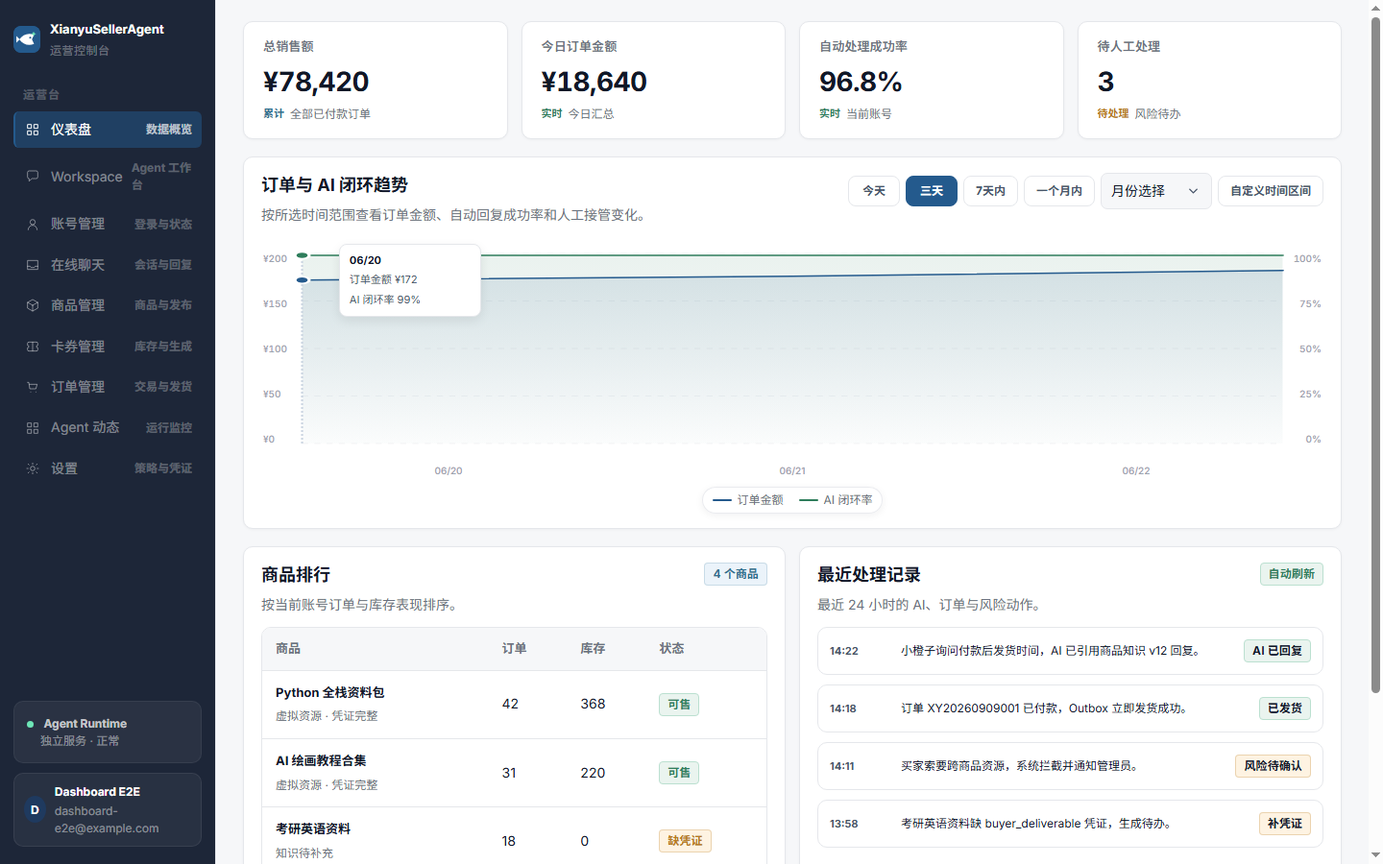
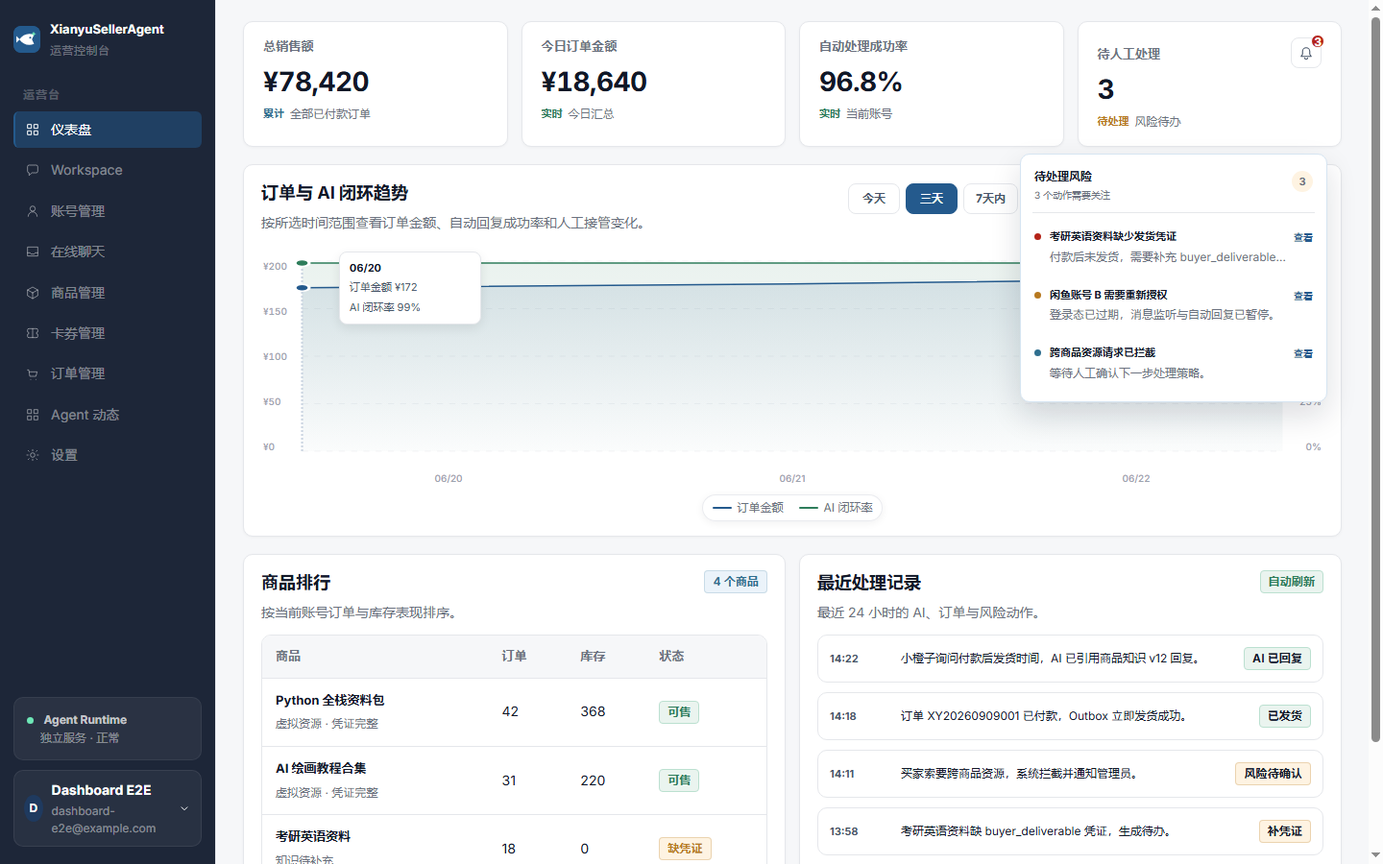
feat(仪表盘): 将待人工处理铃铛嵌入KPI卡片

diff --git a/apps/web/src/features/dashboard/components/dashboard.css b/apps/web/src/features/dashboard/components/dashboard.css
@@ -36,13 +36,13 @@
 .dashboard-btn .dashboard-icon{width:14px;height:14px}
 .dashboard-badge{display:inline-flex;align-items:center;justify-content:center;width:max-content;border-radius:4px;padding:2px 8px;font-size:11px;font-weight:700;line-height:18px;letter-spacing:.01em;white-space:nowrap}.dashboard-badge-ok{color:var(--success);background:var(--success-bg);border:1px solid var(--success-border)}.dashboard-badge-warn{color:var(--warn);background:var(--warn-bg);border:1px solid rgba(183,121,31,.26)}.dashboard-badge-danger{color:var(--danger);background:var(--danger-bg);border:1px solid rgba(180,35,24,.2)}.dashboard-badge-info{color:var(--info);background:var(--soft-blue-bg);border:1px solid rgba(47,111,143,.18)}.dashboard-badge-gray{color:var(--sub);background:var(--bg);border:1px solid var(--border)}
 .tone-ok{color:var(--success)}.tone-warn{color:var(--warn)}.tone-danger{color:var(--danger)}.tone-info{color:var(--info)}.tone-gray{color:var(--sub)}
-.dashboard-kpi-grid{display:grid;grid-template-columns:repeat(4,minmax(0,1fr));gap:14px}.dashboard-kpi-card{padding:16px 20px}.dashboard-kpi-label{margin-bottom:10px;color:var(--sub);font-size:11px;font-weight:600;letter-spacing:.01em}.dashboard-kpi-value{margin-bottom:8px;color:var(--text);font-size:24px;font-weight:800;letter-spacing:-.02em;font-variant-numeric:tabular-nums}.dashboard-kpi-delta{display:flex;align-items:center;gap:6px;font-size:11px}.dashboard-kpi-delta span{font-weight:800}.dashboard-kpi-delta small{color:var(--sub);font-size:11px}
+.dashboard-kpi-grid{display:grid;grid-template-columns:repeat(4,minmax(0,1fr));gap:14px}.dashboard-kpi-card{position:relative;padding:16px 20px}.dashboard-kpi-card-head{display:flex;align-items:flex-start;justify-content:space-between;gap:8px;min-height:32px}.dashboard-kpi-card-head .dashboard-kpi-label{margin-top:8px}.dashboard-kpi-label{margin-bottom:10px;color:var(--sub);font-size:11px;font-weight:600;letter-spacing:.01em}.dashboard-kpi-value{margin-bottom:8px;color:var(--text);font-size:24px;font-weight:800;letter-spacing:-.02em;font-variant-numeric:tabular-nums}.dashboard-kpi-delta{display:flex;align-items:center;gap:6px;font-size:11px}.dashboard-kpi-delta span{font-weight:800}.dashboard-kpi-delta small{color:var(--sub);font-size:11px}
 .dashboard-main-grid{display:grid;grid-template-columns:minmax(0,1fr);gap:14px}.dashboard-two-grid{display:grid;grid-template-columns:repeat(2,minmax(0,1fr));gap:14px}.dashboard-panel{padding:16px 18px;overflow:hidden}.dashboard-panel-head{display:flex;justify-content:space-between;align-items:flex-start;gap:12px;margin-bottom:12px}.dashboard-panel h2{margin:0 0 7px;font-size:13px;font-weight:700;color:var(--text)}.dashboard-panel p{margin:0;color:var(--sub);font-size:12px;line-height:1.65}.dashboard-trend-head-actions{display:flex;align-items:center;justify-content:flex-end;gap:8px;flex-wrap:wrap}.dashboard-trend-controls{display:flex;align-items:center;justify-content:flex-end;gap:6px;flex-wrap:wrap}.dashboard-trend-select,.dashboard-trend-date{height:32px;padding:0 9px;border:1px solid var(--border);border-radius:8px;background:#fff;color:var(--muted);font-size:11px;font-weight:700}.dashboard-trend-date{width:126px;font-weight:500}.dashboard-trend-date-separator{color:var(--sub);font-size:11px}.dashboard-trend-apply{height:32px;padding:0 10px;font-size:11px}.dashboard-chart-wrap{height:286px;position:relative}.dashboard-chart-wrap svg{width:100%;height:232px;stroke:none;display:block}.dashboard-chart-grid{stroke:#F3F4F6;stroke-width:1;stroke-dasharray:3 3}.dashboard-chart-line{fill:none;stroke:var(--link);stroke-width:1.5;stroke-linecap:round;stroke-linejoin:round}.dashboard-chart-line-secondary{stroke:var(--success)}.dashboard-chart-hover-line{stroke:#CBD5E1;stroke-width:1;stroke-dasharray:2 2}.dashboard-chart-dot{stroke:#fff;stroke-width:1.5}.dashboard-chart-dot-primary{fill:var(--link)}.dashboard-chart-dot-secondary{fill:var(--success)}.dashboard-chart-tooltip{position:absolute;top:6px;z-index:2;display:grid;gap:3px;min-width:148px;transform:translateX(-50%);padding:8px 10px;border:1px solid var(--border);border-radius:8px;background:#fff;box-shadow:0 4px 12px rgba(0,0,0,.08);color:var(--muted);font-size:11px;pointer-events:none}.dashboard-chart-tooltip strong{color:var(--text);font-size:11px}.dashboard-chart-legend{display:flex;gap:16px;align-items:center;color:var(--sub);font-size:11px}.dashboard-chart-legend span{display:inline-flex;align-items:center;gap:6px}.dashboard-legend-line{width:20px;height:2px;border-radius:2px;display:inline-block}.dashboard-legend-line.primary{background:var(--link)}.dashboard-legend-line.secondary{background:var(--success)}
 .dashboard-data-table{display:grid;border:1px solid var(--border);border-radius:10px;overflow:hidden}.dashboard-table-head,.dashboard-table-row{display:grid;grid-template-columns:1.6fr .5fr .5fr .7fr;align-items:center;gap:12px;padding:12px 14px;border-bottom:1px solid var(--border);font-size:12px}.dashboard-table-head{background:var(--bg);color:var(--sub);font-size:11px;font-weight:800}.dashboard-table-row:last-child{border-bottom:0}.dashboard-table-row b{display:block;margin-bottom:3px;font-size:13px}.dashboard-table-row small{color:var(--sub);font-size:11px}.dashboard-empty-row{padding:24px 14px;color:var(--sub);font-size:12px;text-align:center}
 .dashboard-timeline{display:grid;gap:10px}.dashboard-timeline-row{display:grid;grid-template-columns:64px 1fr auto;gap:10px;align-items:center;padding:12px;border:1px solid var(--border);border-radius:10px;background:#fff;font-size:12px;text-align:left}.dashboard-timeline-row:hover{background:#F8FAFC}.dashboard-timeline-row strong{font-size:11px;color:var(--muted)}.dashboard-timeline-row span{line-height:1.45;color:var(--text)}
-.dashboard-risk-strip{display:flex;align-items:center;justify-content:space-between;gap:14px;padding:12px 14px;border:1px solid #D6E5F2;border-radius:10px;background:var(--soft-blue-bg)}.dashboard-risk-strip strong,.dashboard-risk-strip span{display:block}.dashboard-risk-strip strong{font-size:12px}.dashboard-risk-strip span{margin-top:3px;color:var(--sub);font-size:10px}.dashboard-risk-inline-list{display:flex;gap:8px;flex-wrap:wrap;justify-content:flex-end}.dashboard-risk-chip{display:flex;align-items:center;gap:7px;min-height:32px;padding:0 10px;border:1px solid var(--border);border-radius:8px;background:#fff;color:var(--text);font-size:11px}.dashboard-risk-chip small{margin:0;color:var(--link);font-weight:800}.dashboard-risk-high{border-color:rgba(180,35,24,.2)}.dashboard-risk-medium{border-color:rgba(183,121,31,.26)}
+.dashboard-risk-popover{position:absolute;top:calc(100% + 8px);right:14px;z-index:8;width:min(320px,calc(100vw - 32px));padding:12px;border:1px solid #D6E5F2;border-radius:10px;background:#fff;box-shadow:0 14px 32px rgba(17,24,39,.14);text-align:left}.dashboard-risk-popover-head{display:flex;align-items:flex-start;justify-content:space-between;gap:12px;padding:2px 2px 10px;border-bottom:1px solid var(--border)}.dashboard-risk-popover-head strong,.dashboard-risk-popover-head span{display:block}.dashboard-risk-popover-head strong{color:var(--text);font-size:12px}.dashboard-risk-popover-head span{margin-top:3px;color:var(--sub);font-size:10px}.dashboard-risk-popover-count{min-width:22px;height:22px;padding:0 6px;border-radius:999px;background:var(--warn-bg);color:var(--warn);font-size:11px!important;font-weight:800;line-height:22px;text-align:center}.dashboard-risk-popover-list{display:grid;gap:6px;padding-top:8px}.dashboard-risk-popover-item{display:grid;grid-template-columns:8px minmax(0,1fr) auto;align-items:start;gap:8px;width:100%;padding:8px 2px;border:0;background:transparent;color:var(--text);text-align:left}.dashboard-risk-popover-item:hover{background:var(--bg)}.dashboard-risk-popover-dot{width:7px;height:7px;margin-top:5px;border-radius:999px;background:var(--info)}.dashboard-risk-popover-item.dashboard-risk-high .dashboard-risk-popover-dot{background:var(--danger)}.dashboard-risk-popover-item.dashboard-risk-medium .dashboard-risk-popover-dot{background:var(--warn)}.dashboard-risk-popover-copy{min-width:0}.dashboard-risk-popover-copy strong,.dashboard-risk-popover-copy small{display:block;overflow:hidden;text-overflow:ellipsis;white-space:nowrap}.dashboard-risk-popover-copy strong{font-size:11px}.dashboard-risk-popover-copy small{margin-top:3px;color:var(--sub);font-size:10px}.dashboard-risk-popover-action{padding-top:1px;color:var(--link);font-size:10px;font-weight:800}.dashboard-risk-popover-empty{margin:10px 2px 2px;color:var(--sub);font-size:11px}
 .dashboard-state-stack{min-height:100%}.dashboard-state-card{display:grid;gap:10px;align-content:center;justify-items:start;min-height:300px;padding:24px;border:1px dashed #C8D8EA;border-radius:10px;background:#fff}.dashboard-state-card strong{font-size:15px}.dashboard-state-card p{margin:0;color:var(--sub);font-size:12px;line-height:1.6}.dashboard-state-forbidden{border-color:rgba(180,35,24,.22);background:var(--danger-bg)}.dashboard-state-timeout{border-color:rgba(183,121,31,.24);background:var(--warn-bg)}.dashboard-state-error{border-color:rgba(180,35,24,.22);background:#FFF8F7}.dashboard-skeleton-title{width:220px;height:20px;border-radius:6px;background:linear-gradient(90deg,#EEF2F7 25%,#F8FAFC 50%,#EEF2F7 75%);background-size:200% 100%;animation:dashboard-shimmer 1.4s infinite}.dashboard-skeleton-copy{width:420px;height:12px;border-radius:6px;background:#F1F5F9}.dashboard-skeleton-grid{display:grid;grid-template-columns:repeat(4,1fr);gap:14px;width:100%;margin-top:8px}.dashboard-skeleton-grid span{height:108px;border-radius:10px;background:linear-gradient(90deg,#EEF2F7 25%,#F8FAFC 50%,#EEF2F7 75%);background-size:200% 100%;animation:dashboard-shimmer 1.4s infinite}.dashboard-mobile-frame{display:none}
-.dashboard-icon-button{position:relative;width:32px;height:32px;display:grid;place-items:center;border:1px solid var(--border);border-radius:8px;background:#fff;color:var(--muted)}.dashboard-icon-button b{position:absolute;top:-4px;right:-4px;width:14px;height:14px;border-radius:999px;background:var(--danger);border:1.5px solid #fff;color:#fff;font-size:8px;line-height:12px}
+.dashboard-icon-button{position:relative;width:32px;height:32px;display:grid;place-items:center;border:1px solid var(--border);border-radius:8px;background:#fff;color:var(--muted)}.dashboard-icon-button b{position:absolute;top:-4px;right:-4px;width:14px;height:14px;border-radius:999px;background:var(--danger);border:1.5px solid #fff;color:#fff;font-size:8px;line-height:12px}.dashboard-kpi-bell{flex:0 0 auto}.dashboard-pending-manual-card{z-index:2}
 .dashboard-risk-drawer{position:fixed;inset:0;z-index:40;display:flex;justify-content:flex-end;background:rgba(17,24,39,.24);backdrop-filter:blur(4px)}.dashboard-risk-drawer-card{width:min(420px,calc(100vw - 28px));height:100%;padding:24px;background:#fff;box-shadow:-18px 0 48px rgba(17,24,39,.16)}.dashboard-risk-drawer-head{display:flex;justify-content:space-between;gap:14px;align-items:flex-start;margin-bottom:18px}.dashboard-risk-drawer-head h2{margin:0;font-size:18px}.dashboard-risk-drawer-card>p{color:var(--muted);font-size:13px;line-height:1.65}.dashboard-risk-drawer-meta{display:flex;justify-content:space-between;align-items:center;margin-top:22px;padding:12px;border-radius:10px;background:var(--bg);font-size:12px}.dashboard-risk-drawer-actions{display:flex;justify-content:flex-end;gap:8px;margin-top:24px}
 .dashboard-mobile-status,.dashboard-mobile-head,.dashboard-mobile-main,.dashboard-mobile-tabs{display:none}
 @keyframes dashboard-shimmer{0%{background-position:200% 0}100%{background-position:-200% 0}}
@@ -53,14 +53,14 @@
   .dashboard-mobile-status{height:44px;flex:0 0 44px;display:flex;align-items:center;justify-content:space-between;padding:0 22px;background:#fff;color:var(--text);font-size:12px;font-weight:700}.dashboard-mobile-head{flex:0 0 auto;display:flex;justify-content:space-between;align-items:center;padding:10px 20px 14px;background:#fff;border-bottom:1px solid var(--border)}.dashboard-mobile-head strong{font-size:16px}.dashboard-mobile-head-actions{display:flex;align-items:center;gap:8px}.dashboard-mobile-account-chip{height:32px;padding:0 11px;border:1px solid var(--border);border-radius:999px;background:var(--bg);color:var(--link);font-size:12px;font-weight:800}.dashboard-mobile-main{flex:1;overflow:auto;display:flex;flex-direction:column;gap:14px;padding:14px 16px 92px}.dashboard-mobile-tabs{position:absolute;bottom:0;left:0;right:0;display:flex;justify-content:space-around;gap:0;padding:8px 0 24px;border-top:1px solid var(--border);background:#fff}.dashboard-mobile-tabs button{border:0;background:transparent;color:var(--axis);display:grid;justify-items:center;gap:3px;font-size:9px;min-width:42px}.dashboard-mobile-tabs .dashboard-icon{width:34px;height:26px;padding:6px 8px;border-radius:8px}.dashboard-mobile-tabs button.active{color:var(--link);font-weight:800}.dashboard-mobile-tabs button.active .dashboard-icon{background:var(--soft-blue-bg)}
   .dashboard-mobile-page{display:flex;flex-direction:column;gap:12px}.dashboard-mobile-status-summary{padding:14px;border-radius:12px}.dashboard-mobile-section-head{display:flex;align-items:flex-start;justify-content:space-between;gap:10px;margin-bottom:12px}.dashboard-mobile-section-head h2{margin:0 0 4px;font-size:13px}.dashboard-mobile-section-head p{margin:0;font-size:11px;line-height:1.45}.dashboard-mobile-health-grid{display:grid;grid-template-columns:1fr 1fr;gap:8px}.dashboard-mobile-health-grid span{padding:10px;border:1px solid var(--border);border-radius:10px;background:var(--bg)}.dashboard-mobile-health-grid b{display:block;margin-bottom:3px;color:var(--text);font-size:12px}.dashboard-mobile-health-grid small{display:block;color:var(--sub);font-size:10px}
   .dashboard-mobile-quick-grid{display:grid;grid-template-columns:repeat(2,1fr);gap:10px}.dashboard-mobile-quick-card{min-height:68px;text-align:left;border:1px solid var(--border);border-radius:12px;background:#fff;padding:12px;box-shadow:var(--shadow-card)}.dashboard-mobile-quick-card span{display:block;margin-bottom:6px;color:var(--text);font-size:13px;font-weight:800}.dashboard-mobile-quick-card small{display:block;color:var(--sub);font-size:11px}.dashboard-tone-card-ok{box-shadow:inset 3px 0 0 var(--success),0 1px 3px rgba(0,0,0,.04)}.dashboard-tone-card-warn{box-shadow:inset 3px 0 0 var(--warn),0 1px 3px rgba(0,0,0,.04)}.dashboard-tone-card-danger{box-shadow:inset 3px 0 0 var(--danger),0 1px 3px rgba(0,0,0,.04)}.dashboard-tone-card-info{box-shadow:inset 3px 0 0 var(--info),0 1px 3px rgba(0,0,0,.04)}
-  .dashboard-mobile-kpis{display:grid;grid-template-columns:repeat(2,1fr);gap:10px}.dashboard-mobile-kpis .dashboard-kpi-card{padding:14px}.dashboard-mobile-kpis .dashboard-kpi-value{font-size:22px}.dashboard-mobile-kpis .dashboard-kpi-label{min-height:26px}.dashboard-mobile-kpis .dashboard-kpi-delta{align-items:flex-start;flex-direction:column;gap:1px}.dashboard-mobile-kpis .dashboard-kpi-delta small{line-height:1.2}
+  .dashboard-mobile-kpis{display:grid;grid-template-columns:repeat(2,1fr);gap:10px}.dashboard-mobile-kpis .dashboard-kpi-card{padding:14px}.dashboard-mobile-kpis .dashboard-kpi-value{font-size:22px}.dashboard-mobile-kpis .dashboard-kpi-label{min-height:26px}.dashboard-mobile-kpis .dashboard-kpi-delta{align-items:flex-start;flex-direction:column;gap:1px}.dashboard-mobile-kpis .dashboard-kpi-delta small{line-height:1.2}.dashboard-mobile-kpis .dashboard-risk-popover{left:auto;right:0;width:min(300px,calc(100vw - 52px))}
   .dashboard-mobile-task-card{padding:14px;border-radius:12px}.dashboard-mobile-task-list{display:grid;gap:9px}.dashboard-mobile-task-row{min-height:64px;display:grid;grid-template-columns:4px 1fr auto;align-items:center;gap:10px;width:100%;border:1px solid var(--border);border-radius:10px;background:#fff;padding:10px;text-align:left}.dashboard-mobile-task-row i{width:4px;height:38px;border-radius:4px;background:var(--info)}.dashboard-mobile-task-row.urgent i{background:var(--warn)}.dashboard-mobile-task-row strong{display:block;margin-bottom:3px;color:var(--text);font-size:13px}.dashboard-mobile-task-row span{display:block;color:var(--sub);font-size:11px;line-height:1.35}
   .dashboard-mobile-pulse-card{padding:14px;border-radius:12px}.dashboard-mobile-pulse-card .dashboard-chart-wrap{height:190px}.dashboard-mobile-pulse-card .dashboard-chart-wrap svg{height:148px}.dashboard-mobile-pulse-card .dashboard-chart-legend{margin-top:0}.dashboard-text-button{border:0;background:transparent;color:var(--link);font-size:12px;font-weight:800}.dashboard-mobile-state{display:block}.dashboard-mobile-state .dashboard-page-stack{gap:0}.dashboard-mobile-state .dashboard-page-title{display:none}.dashboard-mobile-state .dashboard-state-card{min-height:280px}
   .dashboard-risk-drawer{align-items:flex-end}.dashboard-risk-drawer-card{width:100%;height:auto;max-height:70vh;padding:18px;border-radius:18px 18px 0 0}
 }
 
 @media(min-width:901px){.dashboard-mobile-frame{display:none}}
-@media(max-width:1100px) and (min-width:901px){.dashboard-side-nav button{grid-template-columns:18px 1fr}.dashboard-side-nav button small{display:none}.dashboard-risk-inline-list{justify-content:flex-start}}
+@media(max-width:1100px) and (min-width:901px){.dashboard-side-nav button{grid-template-columns:18px 1fr}.dashboard-side-nav button small{display:none}}
 
 .dashboard-trend-date{width:126px;min-height:34px;padding:7px 10px;border-radius:7px;background:var(--bg);font-size:12px;font-weight:400}
 .dashboard-chart-axis{display:flex;justify-content:space-between;gap:4px;padding:0 18px;margin-top:5px;color:var(--axis);font-size:10px;font-weight:500;line-height:1}.dashboard-chart-axis span{min-width:0;flex:1;text-align:center;white-space:nowrap}

diff --git a/apps/web/src/features/dashboard/components/DashboardViews.tsx b/apps/web/src/features/dashboard/components/DashboardViews.tsx
@@ -1,5 +1,5 @@
-import { useState, type MouseEvent, type ReactNode } from 'react';
-import type { DashboardQuery, DashboardRange, DashboardState } from '../types';
+import { useEffect, useId, useRef, useState, type MouseEvent, type ReactNode } from 'react';
+import type { DashboardKpiVM, DashboardQuery, DashboardRange, DashboardRiskTodoVM, DashboardState } from '../types';
 import { Button } from '../../../shared/ui/Button';
 import { InputField } from '../../../shared/ui/InputField';
 import { SelectField } from '../../../shared/ui/SelectField';
@@ -151,14 +151,52 @@ function TrendRangeControl({ query, onChange }: { query: DashboardQuery; onChang
   </div>;
 }
 
+function PendingManualKpiCard({ kpi, riskTodos, onOpenTodo, surface }: { kpi: DashboardKpiVM; riskTodos: DashboardRiskTodoVM[]; onOpenTodo: (id: string) => void; surface: 'desktop' | 'mobile' }) {
+  const [open, setOpen] = useState(false);
+  const cardRef = useRef<HTMLElement | null>(null);
+  const popoverId = `dashboard-risk-popover-${useId()}`;
+  const visibleTodos = riskTodos.slice(0, 3);
+
+  useEffect(() => {
+    if (!open) return undefined;
+    const handleEscape = (event: KeyboardEvent) => {
+      if (event.key === 'Escape') setOpen(false);
+    };
+    const handleOutsidePointer = (event: PointerEvent) => {
+      if (cardRef.current && !cardRef.current.contains(event.target as Node)) setOpen(false);
+    };
+    document.addEventListener('keydown', handleEscape);
+    document.addEventListener('pointerdown', handleOutsidePointer);
+    return () => {
+      document.removeEventListener('keydown', handleEscape);
+      document.removeEventListener('pointerdown', handleOutsidePointer);
+    };
+  }, [open]);
+
+  return <article ref={cardRef} className="dashboard-card dashboard-kpi-card dashboard-pending-manual-card" data-testid={`pending-manual-card-${surface}`}>
+    <div className="dashboard-kpi-card-head">
+      <div className="dashboard-kpi-label">{kpi.label}</div>
+      <button type="button" className="dashboard-icon-button dashboard-kpi-bell" data-testid={`pending-manual-bell-${surface}`} aria-label={open ? '收起待人工处理' : '展开待人工处理'} aria-haspopup="dialog" aria-controls={popoverId} aria-expanded={open} onClick={() => setOpen((current) => !current)}>
+        <Icon name="bell"/>
+        <b>{riskTodos.length}</b>
+      </button>
+    </div>
+    <div className="dashboard-kpi-value">{kpi.value}</div>
+    <div className="dashboard-kpi-delta"><span className={toneClass(kpi.tone)}>{kpi.delta}</span><small>{kpi.context}</small></div>
+    {open ? <div id={popoverId} className="dashboard-risk-popover" data-testid="risk-popover" role="dialog" aria-modal="false" aria-label="待人工处理风险待办">
+      <div className="dashboard-risk-popover-head"><div><strong>待处理风险</strong><span>{riskTodos.length} 个动作需要关注</span></div><span className="dashboard-risk-popover-count">{riskTodos.length}</span></div>
+      {visibleTodos.length ? <div className="dashboard-risk-popover-list">{visibleTodos.map((todo) => <button type="button" key={todo.id} className={`dashboard-risk-popover-item dashboard-risk-${todo.severity}`} onClick={() => { setOpen(false); onOpenTodo(todo.id); }}><span className="dashboard-risk-popover-dot"/><span className="dashboard-risk-popover-copy"><strong>{todo.title}</strong><small>{todo.detail}</small></span><span className="dashboard-risk-popover-action">查看</span></button>)}</div> : <p className="dashboard-risk-popover-empty">当前没有待人工处理事项</p>}
+    </div> : null}
+  </article>;
+}
+
 export function DashboardDesktopContent({ state, query, onOpenTodo, onRefresh, onTrendQueryChange }: { state: DashboardState; query: DashboardQuery; onOpenTodo: (id: string) => void; onRefresh: () => void; onTrendQueryChange: (query: DashboardQuery) => void }) {
   const data = state.data;
   if (!data || state.phase !== 'success') return <DashboardStateViewBlock state={state} onRefresh={onRefresh}/>;
   return <section className="dashboard-page-stack" data-dashboard-surface="desktop">
-    <div className="dashboard-kpi-grid">{data.kpis.map((kpi) => <article className="dashboard-card dashboard-kpi-card" key={kpi.key}><div className="dashboard-kpi-label">{kpi.label}</div><div className="dashboard-kpi-value">{kpi.value}</div><div className="dashboard-kpi-delta"><span className={toneClass(kpi.tone)}>{kpi.delta}</span><small>{kpi.context}</small></div></article>)}</div>
+    <div className="dashboard-kpi-grid">{data.kpis.map((kpi) => kpi.key === 'pendingManual' ? <PendingManualKpiCard key={kpi.key} kpi={kpi} riskTodos={data.riskTodos} onOpenTodo={onOpenTodo} surface="desktop"/> : <article className="dashboard-card dashboard-kpi-card" key={kpi.key}><div className="dashboard-kpi-label">{kpi.label}</div><div className="dashboard-kpi-value">{kpi.value}</div><div className="dashboard-kpi-delta"><span className={toneClass(kpi.tone)}>{kpi.delta}</span><small>{kpi.context}</small></div></article>)}</div>
     <div className="dashboard-main-grid"><article className="dashboard-card dashboard-panel"><div className="dashboard-panel-head"><div><h2>订单与 AI 闭环趋势</h2><p>按所选时间范围查看订单金额、自动回复成功率和人工接管变化。</p></div><div className="dashboard-trend-head-actions"><TrendRangeControl query={query} onChange={onTrendQueryChange}/></div></div><MiniAreaChart state={state}/></article></div>
     <div className="dashboard-two-grid"><article className="dashboard-card dashboard-panel"><div className="dashboard-panel-head"><div><h2>商品排行</h2><p>按当前账号订单与库存表现排序。</p></div><Badge tone="info">4 个商品</Badge></div><div className="dashboard-data-table dashboard-products-table"><div className="dashboard-table-head"><span>商品</span><span>订单</span><span>库存</span><span>状态</span></div>{data.productRank.length ? data.productRank.map((row) => <div className="dashboard-table-row" key={row.title}><span><b>{row.title}</b><small>{row.subtitle}</small></span><span>{row.orders}</span><span>{row.stock}</span><Badge tone={row.tone}>{row.status}</Badge></div>) : <div className="dashboard-empty-row">暂无商品排行</div>}</div></article><article className="dashboard-card dashboard-panel"><div className="dashboard-panel-head"><div><h2>最近处理记录</h2><p>最近 24 小时的 AI、订单与风险动作。</p></div><Badge tone="ok">自动刷新</Badge></div><div className="dashboard-timeline">{data.recentActivity.length ? data.recentActivity.map((item) => <button className="dashboard-timeline-row" key={`${item.time}-${item.text}`} type="button" onClick={() => item.href && onOpenTodo(item.href)}><strong>{item.time}</strong><span>{item.text}</span><Badge tone={item.tone}>{item.status}</Badge></button>) : <div className="dashboard-empty-row">暂无最近处理记录</div>}</div></article></div>
-    <div className="dashboard-risk-strip"><div><strong>待处理风险</strong><span>{data.riskTodos.length} 个动作需要关注</span></div><div className="dashboard-risk-inline-list">{data.riskTodos.slice(0, 3).map((todo) => <button type="button" key={todo.id} className={`dashboard-risk-chip dashboard-risk-${todo.severity}`} onClick={() => onOpenTodo(todo.id)}><span>{todo.title}</span><small>查看</small></button>)}</div></div>
   </section>;
 }
 
@@ -183,7 +221,7 @@ export function DashboardMobileContent({ state, accountLabel = '当前账号', o
   return <div className="dashboard-mobile-page" data-dashboard-surface="mobile">
     <section className="dashboard-mobile-status-summary dashboard-card"><div className="dashboard-mobile-section-head"><div><h2>Agent 在线 · {accountLabel}</h2><p>180 秒托管策略 · 立即发货已启用 · 心跳 14:24:08</p></div><Badge tone="ok">正常</Badge></div><div className="dashboard-mobile-health-grid"><span><b>凭证边界</b><small>仅 buyer_deliverable</small></span><span><b>Outbox</b><small>7 pending / 128 done</small></span></div></section>
     <section className="dashboard-mobile-quick-grid" aria-label="移动端快捷动作">{[['补交付凭证', '考研英语资料', 'warn'], ['确认风险', '跨商品资源请求', 'danger'], ['查看发货', '7 单已执行', 'ok'], ['补充知识', '2 条新问题', 'info']].map(([title, meta, tone]) => <button type="button" className={`dashboard-mobile-quick-card dashboard-tone-card-${tone}`} key={title} onClick={() => onOpenTodo(title)}><span>{title}</span><small>{meta}</small></button>)}</section>
-    <div className="dashboard-mobile-kpis">{data.kpis.map((kpi) => <article className="dashboard-card dashboard-kpi-card" key={kpi.key}><div className="dashboard-kpi-label">{kpi.label}</div><div className="dashboard-kpi-value">{kpi.value}</div><div className="dashboard-kpi-delta"><span className={toneClass(kpi.tone)}>{kpi.delta}</span><small>{kpi.context}</small></div></article>)}</div>
+    <div className="dashboard-mobile-kpis">{data.kpis.map((kpi) => kpi.key === 'pendingManual' ? <PendingManualKpiCard key={kpi.key} kpi={kpi} riskTodos={data.riskTodos} onOpenTodo={onOpenTodo} surface="mobile"/> : <article className="dashboard-card dashboard-kpi-card" key={kpi.key}><div className="dashboard-kpi-label">{kpi.label}</div><div className="dashboard-kpi-value">{kpi.value}</div><div className="dashboard-kpi-delta"><span className={toneClass(kpi.tone)}>{kpi.delta}</span><small>{kpi.context}</small></div></article>)}</div>
     <section className="dashboard-card dashboard-mobile-task-card"><div className="dashboard-mobile-section-head"><div><h2>今天优先处理</h2><p>按风险和时效排序，不展示桌面大表格。</p></div><Badge tone="warn">{data.riskTodos.length} 待办</Badge></div><div className="dashboard-mobile-task-list">{data.riskTodos.slice(0, 3).map((todo) => <button type="button" className={`dashboard-mobile-task-row ${todo.severity === 'high' ? 'urgent' : ''}`} key={todo.id} onClick={() => onOpenTodo(todo.id)}><i/><div><strong>{todo.title}</strong><span>{todo.detail}</span></div><Badge tone={todo.tone}>{todo.severity === 'high' ? '补凭证' : todo.severity === 'medium' ? '确认' : '补知识'}</Badge></button>)}</div></section>
     <section className="dashboard-card dashboard-mobile-pulse-card"><div className="dashboard-mobile-section-head"><div><h2>经营快照</h2><p>只保留移动端可扫读指标。</p></div><button type="button" className="dashboard-text-button">详情</button></div><MiniAreaChart state={state} compact/></section>
   </div>;

diff --git a/apps/web/src/features/dashboard/components/DashboardPage.tsx b/apps/web/src/features/dashboard/components/DashboardPage.tsx
@@ -3,7 +3,7 @@ import { useAccountContext } from '../../../app/account-context';
 import type { PageKey } from '../../../app/navigation';
 import type { DashboardApi } from '../api';
 import { useDashboardController } from '../controller';
-import { DashboardDesktopContent, DashboardMobileContent, Icon } from './DashboardViews';
+import { DashboardDesktopContent, DashboardMobileContent } from './DashboardViews';
 import './dashboard.css';
 
 export function DashboardPage({ api, onNavigate }: { api?: DashboardApi; apiMode: 'live' | 'mock'; onNavigate: (page: PageKey) => void }) {
@@ -36,7 +36,7 @@ export function DashboardPage({ api, onNavigate }: { api?: DashboardApi; apiMode
     <div className="dashboard-desktop-content"><DashboardDesktopContent state={viewState} query={controller.query} onOpenTodo={openTodo} onRefresh={refresh} onTrendQueryChange={controller.setQuery}/></div>
     <div className="dashboard-mobile-content">
       <div className="dashboard-mobile-status"><span>9:41</span><span>5G 100%</span></div>
-      <header className="dashboard-mobile-head"><div><strong>今日总览</strong></div><div className="dashboard-mobile-head-actions"><button type="button" className="dashboard-mobile-account-chip" onClick={() => onNavigate('accounts')}>{accountLabel}</button><button type="button" className="dashboard-icon-button" aria-label="通知" onClick={() => openTodo('todo_001')}><Icon name="bell"/><b>3</b></button></div></header>
+      <header className="dashboard-mobile-head"><div><strong>今日总览</strong></div><div className="dashboard-mobile-head-actions"><button type="button" className="dashboard-mobile-account-chip" onClick={() => onNavigate('accounts')}>{accountLabel}</button></div></header>
       <main className="dashboard-mobile-main"><DashboardMobileContent state={viewState} accountLabel={accountLabel} onOpenTodo={openTodo} onRefresh={refresh}/></main>
     </div>
     {activeTodo ? <aside className="dashboard-risk-drawer" role="dialog" aria-modal="true" aria-label="风险待办详情"><div className="dashboard-risk-drawer-card"><div className="dashboard-risk-drawer-head"><div><p className="dashboard-eyebrow">Risk Todo</p><h2>{activeTodo.title}</h2></div><button type="button" className="dashboard-icon-button" aria-label="关闭" onClick={() => setRiskDrawer(null)}>×</button></div><p>{activeTodo.detail}</p><div className="dashboard-risk-drawer-meta"><span>严重级别</span><strong className={`tone-${activeTodo.tone}`}>{activeTodo.severity}</strong></div><div className="dashboard-risk-drawer-actions"><button type="button" className="dashboard-btn dashboard-btn-ghost" onClick={() => setRiskDrawer(null)}>稍后处理</button><button type="button" className="dashboard-btn dashboard-btn-primary" onClick={() => { setRiskDrawer(null); onNavigate(activeTodo.href.slice(1) as PageKey); }}>去处理</button></div></div></aside> : null}

diff --git a/apps/web/src/features/dashboard/components/DashboardViews.test.tsx b/apps/web/src/features/dashboard/components/DashboardViews.test.tsx
@@ -45,6 +45,10 @@ describe('dashboard views', () => {
     expect(html.indexOf('dashboard-chart-axis')).toBeLessThan(html.indexOf('dashboard-chart-legend'));
     expect(html).toContain('商品排行');
     expect(html).toContain('最近处理记录');
+    expect(html).toContain('dashboard-pending-manual-card');
+    expect(html).toContain('data-testid="pending-manual-bell-desktop"');
+    expect(html).toContain('aria-haspopup="dialog"');
+    expect(html).not.toContain('dashboard-risk-strip');
     expect(html).toContain('data-dashboard-surface="desktop"');
   });
 
@@ -54,6 +58,7 @@ describe('dashboard views', () => {
     expect(html).toContain('补交付凭证');
     expect(html).toContain('今天优先处理');
     expect(html).toContain('经营快照');
+    expect(html).toContain('dashboard-pending-manual-card');
     expect(html).toContain('data-dashboard-surface="mobile"');
   });
 

diff --git a/STATUS.md b/STATUS.md
@@ -205,3 +205,12 @@
 - 兼容与边界：旧 UUID URL 继续可读；默认列表隐藏作废批次；显式 `status=voided` 查询保留未被新活动批次占用的历史；作废批次禁止通过 PATCH 或库存导入复活。
 - 已验证：`npm run typecheck`、`npm test`（API 全套 smoke + Web 63 files / 204 tests）、`npm run build`、`node apps/api/scripts/coupons-smoke.mjs`、`node apps/api/scripts/products-smoke.mjs`、`npm run test:e2e:chrome:coupons`、`docker compose config --quiet`、`git diff --check` 均通过。
 - 未关闭门禁：本环境无 `DATABASE_URL` 且未运行 Docker PostgreSQL，迁移 `029_coupon_batch_sequence.sql` 的真实 PostgreSQL apply/rollback/复读尚未执行；因此本切片保持 `READY_FOR_MERGE`，不宣称发布级 PASS。
+
+## 2026-09-22 Dashboard 待人工处理铃铛切片
+
+- 当前 worktree：`F:\ChenHai\Project\XianYuAgent-dashboard-risk-bell-20260922`；分支：`codex/dashboard-risk-bell-20260922`；状态：`READY_FOR_REVIEW`。
+- 完成范围：将铃铛与风险气泡嵌入“待人工处理”KPI 卡片，桌面/移动复用同一组件；移除桌面底部独立风险条和移动顶部重复通知入口；保留现有风险详情抽屉。
+- 交互边界：卡片内 bell 支持展开/收起、风险项点击打开既有抽屉、Escape 与外部点击关闭；通过 `aria-haspopup`、动态 `aria-label`、`aria-controls` 与非模态 dialog 语义补齐可访问性。
+- 已验证：`npm --workspace apps/web run test -- --run src/features/dashboard/components/DashboardViews.test.tsx`（6/6）、`npm --workspace apps/web run typecheck`、`npm --workspace apps/web run build`、`npm --workspace apps/web run test:e2e:chrome:dashboard`、`git diff --check`；桌面/移动截图已更新至 `docs/evidence/stage5/S4-VS-DASHBOARD/screenshots/`。
+- 部分验证：`npm --workspace apps/web run test` 为 72/73 文件、240/241 用例通过；唯一失败是既有 `App.dashboard-mode.test.ts` 在未包裹 `AccountContextProvider` 时直接渲染 `DashboardPage`，与本切片无关，已登记为开放风险，未修改无关测试。
+- 人工审核后：确认视觉与交互后再由维护者将本分支合入 `main`；本 worktree 不执行合并。

diff --git a/docs/05-review-log.md b/docs/05-review-log.md
@@ -472,3 +472,13 @@
 | S5-R92 | 质量 / 发布 | 全量类型检查、构建、API/Web 测试、smoke、Compose 配置和差异卫生是否通过 | root | PARTIALLY_VERIFIED | `npm run typecheck`、`npm test`、`npm run build`、`node apps/api/scripts/coupons-smoke.mjs`、`node apps/api/scripts/products-smoke.mjs`、`docker compose config --quiet`、`git diff --check`；真实 PostgreSQL 迁移/rollback 因环境缺失未执行 |
 
 本轮结论：用户提出的全部卡券列表与批次序号需求已在代码和受控跨层路径中覆盖；真实 PostgreSQL 迁移 apply/rollback/复读仍待具备 `DATABASE_URL` 与运行中数据库后复审，当前切片保持 `READY_FOR_REVIEW`。
+
+### 2026-09-22：Dashboard 待人工处理铃铛卡片复审
+
+| 评审编号 | 类型 | 评审重点 | 评审人 | 结论 | 证据 |
+| --- | --- | --- | --- | --- | --- |
+| S5-R93 | 业务 / 验收 | 铃铛是否位于“待人工处理”卡片内，风险项点击是否复用既有详情抽屉，桌面底部风险条和移动顶部重复入口是否移除 | root + dashboard_risk_card_audit | PASS | `DashboardViews.tsx`、`DashboardPage.tsx`；DashboardViews 单测 6/6；桌面 Chrome/CDP 气泡断言 |
+| S5-R94 | 架构 / 数据流 | 弹层是否作为 KPI 卡片内局部状态实现，是否复用 `riskTodos` 与 `onOpenTodo`，未引入新的导航或 API 状态 | root + dashboard_risk_card_audit | PASS | `PendingManualKpiCard`；现有 `openTodo()` 与风险 drawer；桌面/移动共用组件 |
+| S5-R95 | 前端 / 视觉 / 可访问性 | 右列移动卡片定位、Escape/外部点击关闭、动态 aria 文案、固定 1440×900/390×844 截图与构建回归 | root + dashboard_risk_card_audit | PASS（受控环境） | `dashboard.css`；`npm --workspace apps/web run typecheck`；`npm --workspace apps/web run build`；`npm --workspace apps/web run test:e2e:chrome:dashboard`；`docs/evidence/stage5/S4-VS-DASHBOARD/screenshots/` |
+
+本轮结论：铃铛已按最新产品约束嵌入“待人工处理”小卡片，不新增顶部标题栏。目标切片达到 `READY_FOR_REVIEW`；全量 Web 单测仍有一个既有 `AccountContextProvider` 测试夹具失败，未将其误报为本切片通过。

diff --git a/docs/06-risk-register.md b/docs/06-risk-register.md
@@ -201,3 +201,9 @@
 | 编号 | 风险 | 级别 | 应对 | 状态 |
 | --- | --- | --- | --- | --- |
 | S5-RISK-036 | `029_coupon_batch_sequence.sql` 已新增 `sequence_id`、序号回收逻辑和非作废唯一索引，但当前环境没有 `DATABASE_URL` 且未运行 PostgreSQL 容器，尚未执行真实 apply/rollback/复读 | P1 | 保留旧 UUID 读写兼容；在隔离 PostgreSQL volume 执行迁移、重复执行、删除后复用、旧 UUID URL 读取、作废历史查询和回滚演练，再回写证据 | OPEN |
+
+### 2026-09-22 Dashboard 待人工处理铃铛切片
+
+| 编号 | 风险 | 等级 | 应对 | 状态 |
+| --- | --- | --- | --- | --- |
+| S5-RISK-037 | Web 全量单测中既有 `App.dashboard-mode.test.ts` 直接渲染 `DashboardPage`，缺少 `AccountContextProvider`，导致 1 个测试失败；本切片目标测试、类型检查、构建与 Dashboard Chrome/CDP E2E 均通过 | P2 | 补齐既有测试夹具后重新执行 Web 全量单测；本切片不修改无关测试，不以窄范围测试替代全量结果 | OPEN |
